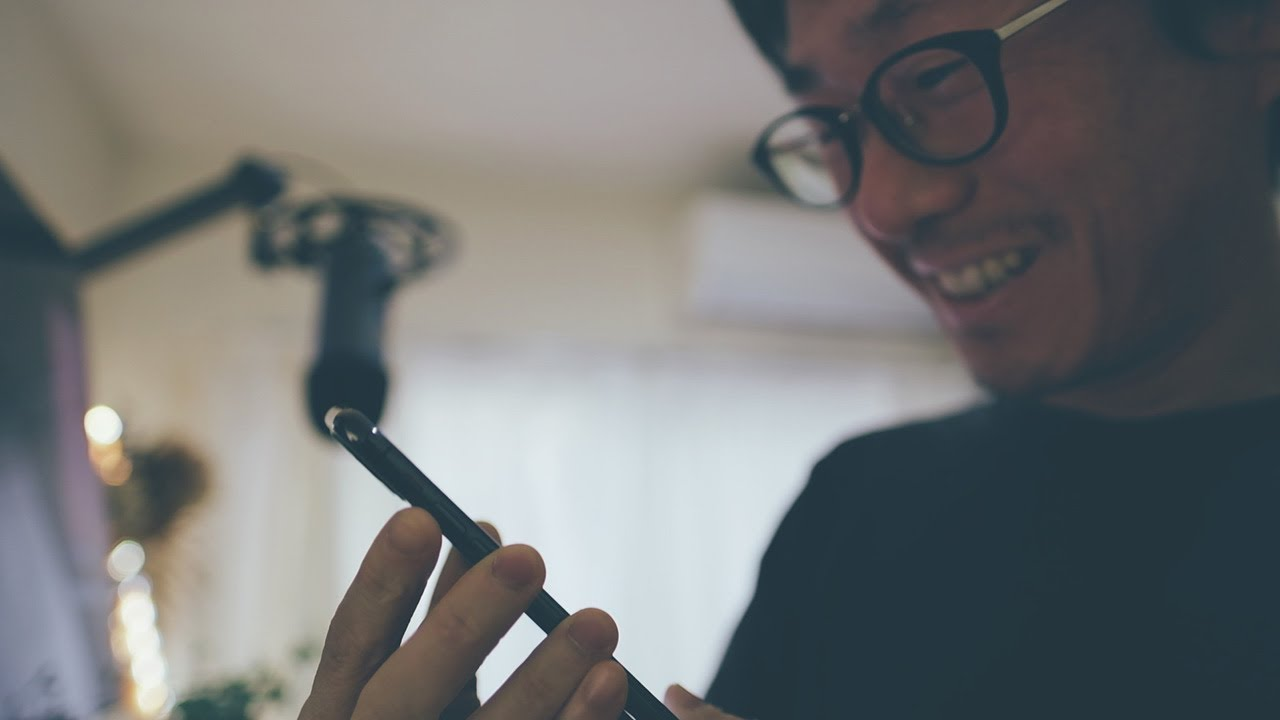
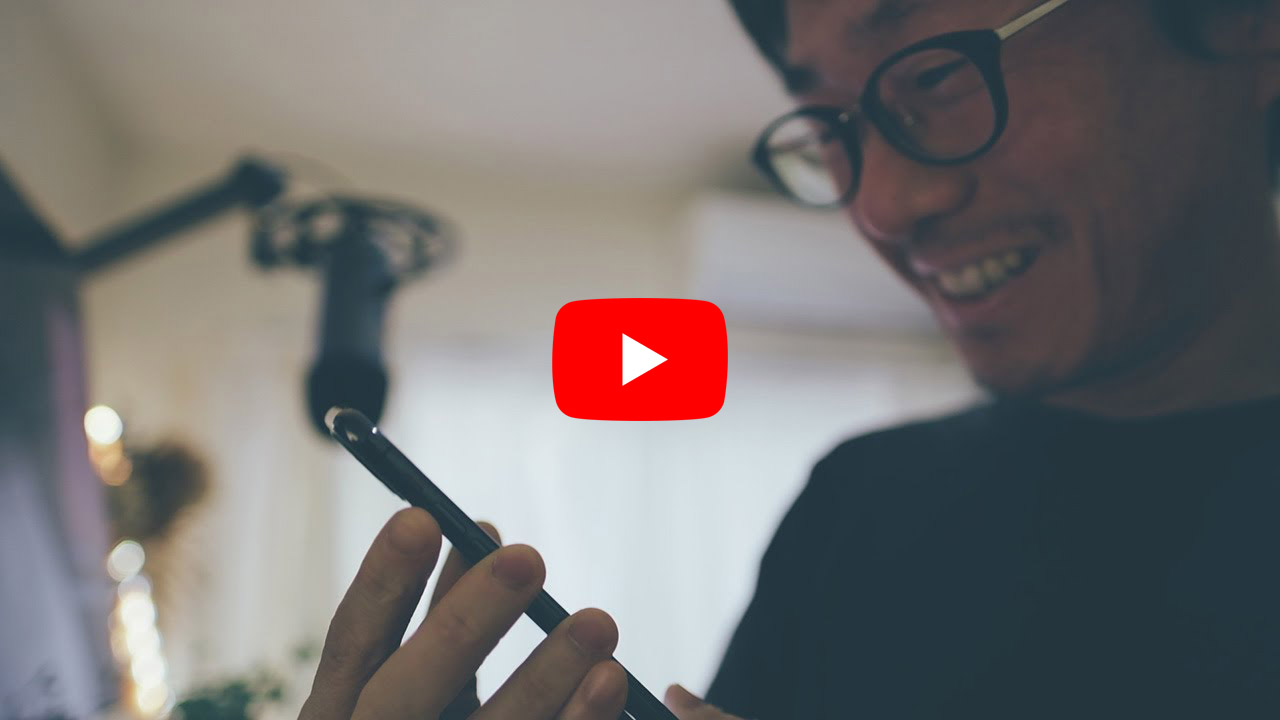
feat(release): v4.1.0

Changed region(s): [[0.4062, 0.3972, 0.5938, 0.6111]]

diff --git a/README.md b/README.md
@@ -1,5 +1,16 @@
 # Inkdrop for Mobile - Release Notes
 
+## v4.1.0
+2021-02-26
+
+We've got significant performance improvement!
+
+[![vlog](https://github.com/inkdropapp/version-history-mobile/blob/master/images/v4.1.0-vlog.jpg?raw=true)](https://www.youtube.com/watch?v=vj723NlrIQc)
+
+* Data sync and loading image speeds have been improved
+* Use system color scheme for syntax theme by default
+* Fixed TOC anchors not working
+
 ## v4.0.4
 2021-01-23
 
